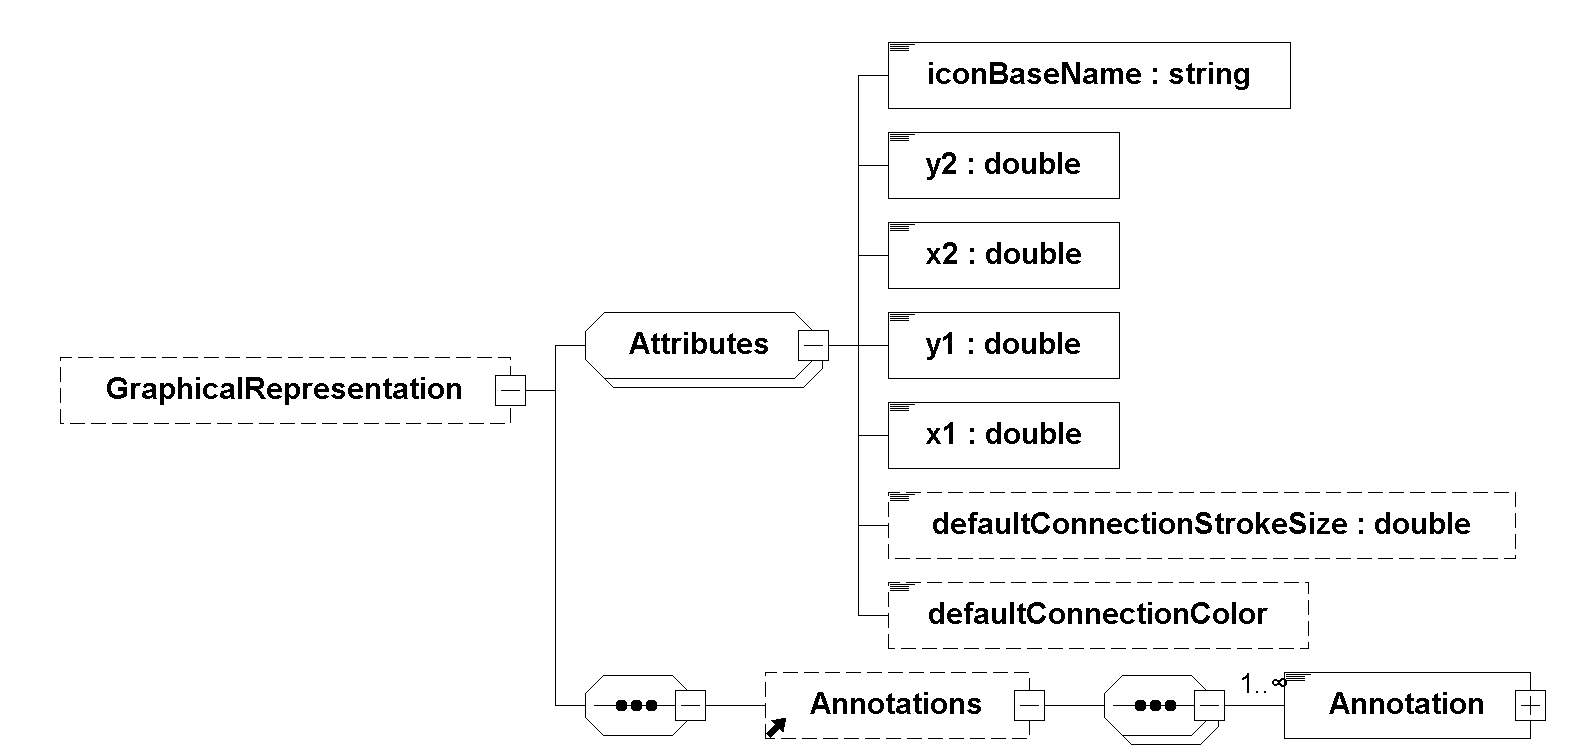
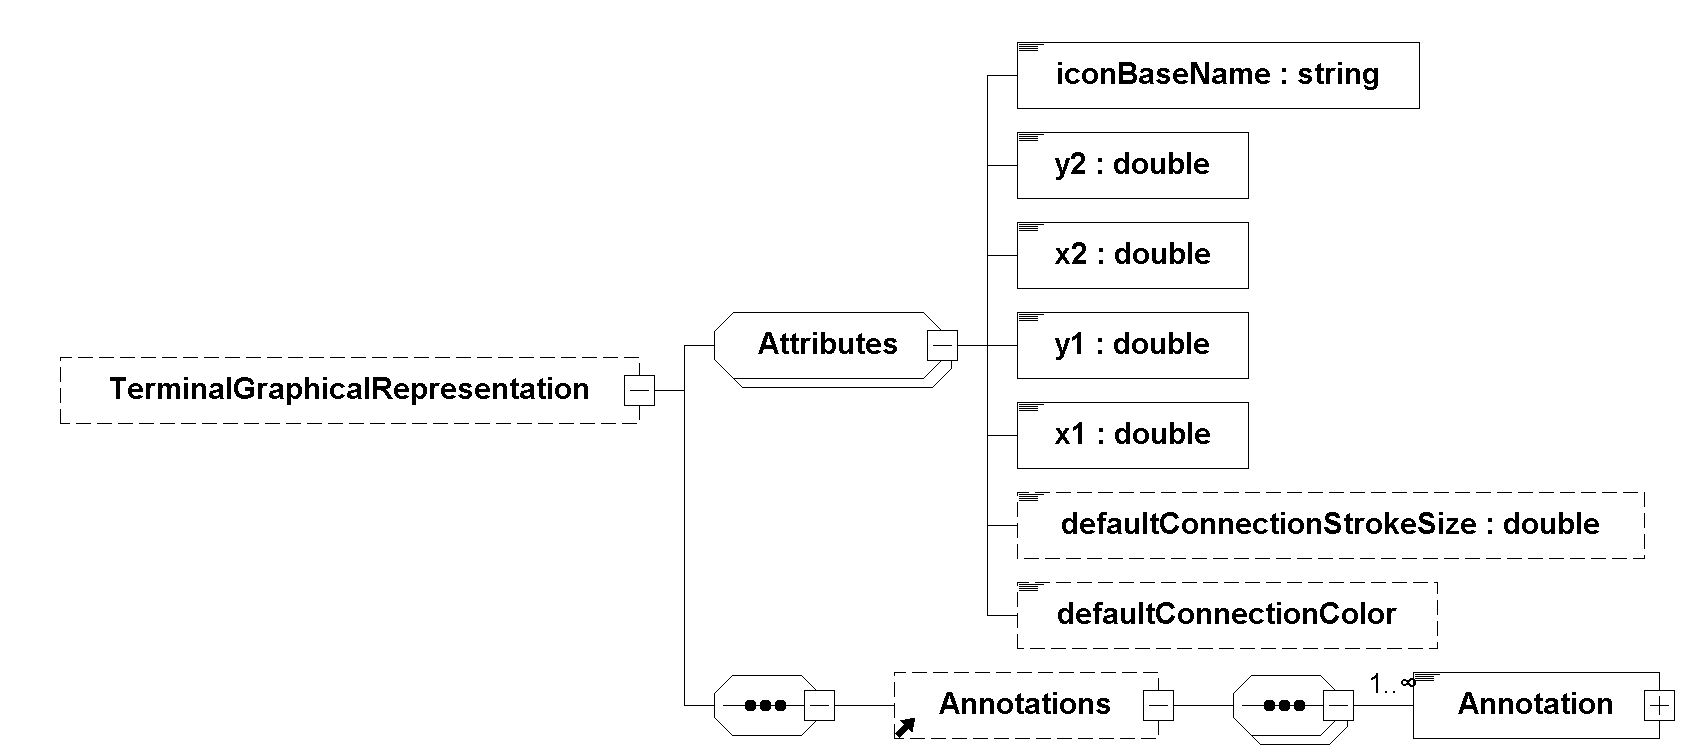
Update generated specification from fmi-standard (f47f783)

diff --git a/docs/3.0-dev/index.html b/docs/3.0-dev/index.html
@@ -682,10 +682,11 @@ document.addEventListener('keydown', (event) => {
 <li><a href="#_overview_3">2.2.6.2.1. Overview</a></li>
 <li><a href="#section-terminals">2.2.6.2.2. Terminals</a></li>
 <li><a href="#section-terminalvars">2.2.6.2.3. Terminal Member Variable</a></li>
-<li><a href="#GeneralRemarkOnSignal">2.2.6.2.4. General Remark on Signal</a></li>
-<li><a href="#_general_remark_on_inflow_and_outflow">2.2.6.2.5. General Remark on Inflow and Outflow</a></li>
-<li><a href="#_terminal_stream_member_variable">2.2.6.2.6. Terminal Stream Member Variable</a></li>
-<li><a href="#_graphical_representation_of_terminals">2.2.6.2.7. Graphical Representation of Terminals</a></li>
+<li><a href="#_terminal_graphical_representations">2.2.6.2.4. Terminal Graphical Representations</a></li>
+<li><a href="#GeneralRemarkOnSignal">2.2.6.2.5. General Remark on Signal</a></li>
+<li><a href="#_general_remark_on_inflow_and_outflow">2.2.6.2.6. General Remark on Inflow and Outflow</a></li>
+<li><a href="#_terminal_stream_member_variable">2.2.6.2.7. Terminal Stream Member Variable</a></li>
+<li><a href="#_graphical_representation_of_terminals">2.2.6.2.8. Graphical Representation of Terminals</a></li>
 </ul>
 </li>
 </ul>
@@ -3611,93 +3612,110 @@ The types used in the FMI schema files are:</p>
 </div>
 <table class="tableblock frame-all grid-all stretch">
 <colgroup>
-<col style="width: 20%;">
-<col style="width: 60%;">
-<col style="width: 20%;">
+<col style="width: 16.6666%;">
+<col style="width: 50%;">
+<col style="width: 16.6666%;">
+<col style="width: 16.6668%;">
 </colgroup>
 <tbody>
 <tr>
 <td class="tableblock halign-left valign-top"><p class="tableblock">XML</p></td>
 <td class="tableblock halign-left valign-top"><p class="tableblock">Description (<a href="http://www.w3.org/TR/xmlschema-2/" class="bare">http://www.w3.org/TR/xmlschema-2/</a>)</p></td>
 <td class="tableblock halign-left valign-top"><p class="tableblock">Mapping to C</p></td>
+<td class="tableblock halign-left valign-top"><p class="tableblock">Mapping to FMI 3.0</p></td>
 </tr>
 <tr>
 <td class="tableblock halign-left valign-top"><p class="tableblock"><code>double</code></p></td>
 <td class="tableblock halign-left valign-top"><p class="tableblock">IEEE 754 double-precision 64-bit floating point type <em>[An IEEE 754 double-precision floating point value can have up to 17 significant digits in its decimal representation.
 In order to not loose precision, either an appropriate minimal printer algorithm should be used, or alternatively a number of this type should be stored in XML files with at least 17 significant digits.]</em></p></td>
 <td class="tableblock halign-left valign-top"><p class="tableblock"><code>double</code></p></td>
+<td class="tableblock halign-left valign-top"><p class="tableblock"><code>fmi3Float64</code></p></td>
 </tr>
 <tr>
 <td class="tableblock halign-left valign-top"><p class="tableblock"><code>single</code></p></td>
 <td class="tableblock halign-left valign-top"><p class="tableblock">IEEE 754 single-precision 32-bit floating point type <em>[An IEEE 754 single-precision floating point value can have up to 9 significant digits in its decimal representation.
 In order to not loose precision, either an appropriate minimal printer algorithm should be used, or alternatively a number of this type should be stored in XML files with at least 9 significant digits.]</em></p></td>
 <td class="tableblock halign-left valign-top"><p class="tableblock"><code>float</code></p></td>
+<td class="tableblock halign-left valign-top"><p class="tableblock"><code>fmi3Float32</code></p></td>
 </tr>
 <tr>
 <td class="tableblock halign-left valign-top"><p class="tableblock"><code>byte</code></p></td>
 <td class="tableblock halign-left valign-top"><p class="tableblock">Integer number with maximum value 127 and minimum value -128 (8 bit signed integer)</p></td>
 <td class="tableblock halign-left valign-top"><p class="tableblock"><code>int8_t</code></p></td>
+<td class="tableblock halign-left valign-top"><p class="tableblock"><code>fmi3Int8</code></p></td>
 </tr>
 <tr>
 <td class="tableblock halign-left valign-top"><p class="tableblock"><code>unsignedByte</code></p></td>
 <td class="tableblock halign-left valign-top"><p class="tableblock">Integer number with maximum value 255 and minimum value 0 (8 bit unsigned integer)</p></td>
 <td class="tableblock halign-left valign-top"><p class="tableblock"><code>uint8_t</code></p></td>
+<td class="tableblock halign-left valign-top"><p class="tableblock"><code>fmi3UInt8</code></p></td>
 </tr>
 <tr>
 <td class="tableblock halign-left valign-top"><p class="tableblock"><code>short</code></p></td>
 <td class="tableblock halign-left valign-top"><p class="tableblock">Integer number with maximum value 32767 and minimum value -32768 (16 bit signed integer)</p></td>
 <td class="tableblock halign-left valign-top"><p class="tableblock"><code>int16_t</code></p></td>
+<td class="tableblock halign-left valign-top"><p class="tableblock"><code>fmi3Int16</code></p></td>
 </tr>
 <tr>
 <td class="tableblock halign-left valign-top"><p class="tableblock"><code>unsignedShort</code></p></td>
 <td class="tableblock halign-left valign-top"><p class="tableblock">Integer number with maximum value 65535 and minimum value 0 (16 bit unsigned integer)</p></td>
 <td class="tableblock halign-left valign-top"><p class="tableblock"><code>uint16_t</code></p></td>
+<td class="tableblock halign-left valign-top"><p class="tableblock"><code>fmi3UInt16</code></p></td>
 </tr>
 <tr>
 <td class="tableblock halign-left valign-top"><p class="tableblock"><code>int</code></p></td>
 <td class="tableblock halign-left valign-top"><p class="tableblock">Integer number with maximum value 2147483647 and minimum value -2147483648 (32 bit signed integer)</p></td>
 <td class="tableblock halign-left valign-top"><p class="tableblock"><code>int32_t</code></p></td>
+<td class="tableblock halign-left valign-top"><p class="tableblock"><code>fmi3Int32</code></p></td>
 </tr>
 <tr>
 <td class="tableblock halign-left valign-top"><p class="tableblock"><code>unsignedInt</code></p></td>
 <td class="tableblock halign-left valign-top"><p class="tableblock">Integer number with maximum value 4294967295 and minimum value 0 (32 bit unsigned integer)</p></td>
 <td class="tableblock halign-left valign-top"><p class="tableblock"><code>uint32_t</code></p></td>
+<td class="tableblock halign-left valign-top"><p class="tableblock"><code>fmi3UInt32</code></p></td>
 </tr>
 <tr>
 <td class="tableblock halign-left valign-top"><p class="tableblock"><code>long</code></p></td>
 <td class="tableblock halign-left valign-top"><p class="tableblock">Integer number with maximum value 9223372036854775807 and minimum value -9223372036854775808 (64 bit signed integer)</p></td>
 <td class="tableblock halign-left valign-top"><p class="tableblock"><code>int64_t</code></p></td>
+<td class="tableblock halign-left valign-top"><p class="tableblock"><code>fmi3Int64</code></p></td>
 </tr>
 <tr>
 <td class="tableblock halign-left valign-top"><p class="tableblock"><code>unsignedLong</code></p></td>
 <td class="tableblock halign-left valign-top"><p class="tableblock">Integer number with maximum value 18446744073709551615 and minimum value 0 (64 bit unsigned integer)</p></td>
 <td class="tableblock halign-left valign-top"><p class="tableblock"><code>uint64_t</code></p></td>
+<td class="tableblock halign-left valign-top"><p class="tableblock"><code>fmi3UInt64</code></p></td>
 </tr>
 <tr>
 <td class="tableblock halign-left valign-top"><p class="tableblock"><code>boolean</code></p></td>
 <td class="tableblock halign-left valign-top"><p class="tableblock">Boolean number. Legal literals: <code>false</code>, <code>true</code>, <code>0</code>, <code>1</code></p></td>
 <td class="tableblock halign-left valign-top"><p class="tableblock"><code>int</code></p></td>
+<td class="tableblock halign-left valign-top"><p class="tableblock"><code>fmi3Boolean</code></p></td>
 </tr>
 <tr>
 <td class="tableblock halign-left valign-top"><p class="tableblock"><code>string</code></p></td>
 <td class="tableblock halign-left valign-top"><p class="tableblock">Any number of characters</p></td>
 <td class="tableblock halign-left valign-top"><p class="tableblock"><code>char*</code></p></td>
+<td class="tableblock halign-left valign-top"><p class="tableblock"><code>fmi3String</code></p></td>
 </tr>
 <tr>
 <td class="tableblock halign-left valign-top"><p class="tableblock"><code>normalizedString</code></p></td>
 <td class="tableblock halign-left valign-top"><p class="tableblock">String without carriage return, line feed, and tab characters</p></td>
 <td class="tableblock halign-left valign-top"><p class="tableblock"><code>char*</code></p></td>
+<td class="tableblock halign-left valign-top"><p class="tableblock"><code>fmi3String</code></p></td>
 </tr>
 <tr>
 <td class="tableblock halign-left valign-top"><p class="tableblock"><code>hexBinary</code></p></td>
 <td class="tableblock halign-left valign-top"><p class="tableblock">Arbitrary hex-encoded binary data</p></td>
 <td class="tableblock halign-left valign-top"><p class="tableblock"><code>char*</code></p></td>
+<td class="tableblock halign-left valign-top"><p class="tableblock"><code>fmi3Binary</code></p></td>
 </tr>
 <tr>
 <td class="tableblock halign-left valign-top"><p class="tableblock"><code>dateTime</code></p></td>
 <td class="tableblock halign-left valign-top"><p class="tableblock">Date, time and time zone (for details see <a href="https://www.w3.org/TR/xmlschema-2/">XML Schema Part 2: Datatypes Second Edition</a>).
 Example: <code>2002-10-23T12:00:00Z</code> (noon on October 23, 2002, Greenwich Mean Time)</p></td>
 <td class="tableblock halign-left valign-top"><p class="tableblock">tool specific</p></td>
+<td class="tableblock halign-left valign-top"><p class="tableblock">not defined</p></td>
 </tr>
 </tbody>
 </table>
@@ -4234,37 +4252,37 @@ Furthermore, <code>name</code> of a <code>&lt;TypeDefinition&gt;</code> must be 
 <div class="paragraph">
 <p>Additionally, one variable type element must be present.
 Each variable type has its own attributes which can be consulted in the schema.
-<a href="#figure-schema-Float64">Figure 4</a>, <a href="#figure-schema-Int32">Figure 5</a>, <a href="#figure-schema-Boolean">Figure 6</a>, <a href="#figure-schema-Binary">Figure 7</a>, and <a href="#figure-schema-Enumeration">Figure 8</a>, are representative examples.</p>
+<a href="#figure-schema-Float64Type">Figure 4</a>, <a href="#figure-schema-Int32Type">Figure 5</a>, <a href="#figure-schema-BooleanType">Figure 6</a>, <a href="#figure-schema-BinaryType">Figure 7</a>, and <a href="#figure-schema-EnumerationType">Figure 8</a>, are representative examples.</p>
 </div>
-<div id="figure-schema-Float64" class="imageblock text-center">
+<div id="figure-schema-Float64Type" class="imageblock text-center">
 <div class="content">
-<img src="images/schema/Float64.png" alt="Float64" width="60%">
+<img src="images/schema/Float64Type.png" alt="Float64Type" width="60%">
 </div>
-<div class="title">Figure 4. Float64 element.</div>
+<div class="title">Figure 4. Float64Type element.</div>
 </div>
-<div id="figure-schema-Int32" class="imageblock text-center">
+<div id="figure-schema-Int32Type" class="imageblock text-center">
 <div class="content">
-<img src="images/schema/Int32.png" alt="Int32" width="50%">
+<img src="images/schema/Int32Type.png" alt="Int32Type" width="50%">
 </div>
-<div class="title">Figure 5. Int32 element.</div>
+<div class="title">Figure 5. Int32Type element.</div>
 </div>
-<div id="figure-schema-Boolean" class="imageblock text-center">
+<div id="figure-schema-BooleanType" class="imageblock text-center">
 <div class="content">
-<img src="images/schema/Boolean.png" alt="Boolean" width="50%">
+<img src="images/schema/BooleanType.png" alt="BooleanType" width="50%">
 </div>
-<div class="title">Figure 6. Boolean element.</div>
+<div class="title">Figure 6. BooleanType element.</div>
 </div>
-<div id="figure-schema-Binary" class="imageblock text-center">
+<div id="figure-schema-BinaryType" class="imageblock text-center">
 <div class="content">
-<img src="images/schema/Binary.png" alt="Binary" width="70%">
+<img src="images/schema/BinaryType.png" alt="BinaryType" width="70%">
 </div>
-<div class="title">Figure 7. Binary element.</div>
+<div class="title">Figure 7. BinaryType element.</div>
 </div>
-<div id="figure-schema-Enumeration" class="imageblock text-center">
+<div id="figure-schema-EnumerationType" class="imageblock text-center">
 <div class="content">
-<img src="images/schema/Enumeration.png" alt="Enumeration" width="75%">
+<img src="images/schema/EnumerationType.png" alt="EnumerationType" width="75%">
 </div>
-<div class="title">Figure 8. Enumeration element.</div>
+<div class="title">Figure 8. EnumerationType element.</div>
 </div>
 <div class="paragraph">
 <p>The type elements are referred to in variable elements to declare their type.
@@ -4466,7 +4484,7 @@ If <code>strict = true</code> it is required to provide values for <code>interva
 </table>
 <div id="TypeDefinitions" class="imageblock text-center">
 <div class="content">
-<img src="images/schema/Clock.png" alt="Clock" width="55%">
+<img src="images/schema/ClockType.png" alt="ClockType" width="55%">
 </div>
 </div>
 </div>
@@ -4715,7 +4733,7 @@ Their location is neither limited to the extent of the icon nor the extent of th
 </div>
 <div class="paragraph">
 <p>Transparent SVG or PNG files are allowed and wanted. The order of the elements in the XML file defines the order of painting.
-The first element in the <code>&lt;GraphicalRepresentation&gt;</code> is painted first and therefore behind the others, the last element is painted on top of the others and because of that in front of them.
+The first element in the <code>&lt;TerminalGraphicalRepresentation&gt;</code> is painted first and therefore behind the others, the last element is painted on top of the others and because of that in front of them.
 <em>[So the FMU icon should be placed first in the XML file, terminal below.]</em></p>
 </div>
 </div>
@@ -4785,7 +4803,7 @@ Other standards may define new matching rules.
 <em>[It is recommended that vendor specific rules start with <code>_vendorName</code> or <code>_toolName</code> to avoid namespace clashes.]</em></p>
 </div>
 <div class="paragraph">
-<p>There is a sequence of terminal member variables, terminal stream member variables, nested terminals, and an optional <code>&lt;GraphicalRepresentation&gt;</code> element in the <code>&lt;Terminal&gt;</code> element.
+<p>There is a sequence of terminal member variables, terminal stream member variables, nested terminals, and an optional <code>&lt;TerminalGraphicalRepresentation&gt;</code> element in the <code>&lt;Terminal&gt;</code> element.
 The member variables are the exchanged variables.
 The type of the nested terminals is <code>fmi3Terminal</code>, and they can be used to implement structured terminals.</p>
 </div>
@@ -4861,6 +4879,17 @@ This information defines how the connection of this variable has to be implement
 <div class="paragraph">
 <p>The normalized string <code>variableName</code> is used to identify the terminal member variable in the element <code>&lt;ModelVariables&gt;</code>. The information about minimum, maximum, and nominal values is available in there.</p>
 </div>
+</div>
+<div class="sect5">
+<h6 id="_terminal_graphical_representations">2.2.6.2.4. Terminal Graphical Representations</h6>
+<div class="paragraph">
+<p>The <code>&lt;TerminalGraphicalRepresentation&gt;</code> is defined as:</p>
+</div>
+<div class="imageblock text-center">
+<div class="content">
+<img src="images/schema/TerminalGraphicalRepresentation.png" alt="TerminalGraphicalRepresentation" width="70%">
+</div>
+</div>
 <div class="paragraph">
 <p>One variable can be part of several terminals.</p>
 </div>
@@ -4932,7 +4961,7 @@ Restricted to <a href="#input"><code>input</code></a> and <a href="#output"><cod
 </table>
 </div>
 <div class="sect5">
-<h6 id="GeneralRemarkOnSignal">2.2.6.2.4. General Remark on Signal</h6>
+<h6 id="GeneralRemarkOnSignal">2.2.6.2.5. General Remark on Signal</h6>
 <div class="paragraph">
 <p><em>[The signal <code>variableKind</code> can be applied for different use cases.</em>
 <em>The first use case is a signal flow from an <a href="#output"><code>output</code></a> of one FMU to an <a href="#input"><code>input</code></a> of another FMU. The <a href="#output"><code>output</code></a> value has to be forwarded to the <a href="#input"><code>input</code></a>.</em></p>
@@ -4958,7 +4987,7 @@ Restricted to <a href="#input"><code>input</code></a> and <a href="#output"><cod
 </div>
 </div>
 <div class="sect5">
-<h6 id="_general_remark_on_inflow_and_outflow">2.2.6.2.5. General Remark on Inflow and Outflow</h6>
+<h6 id="_general_remark_on_inflow_and_outflow">2.2.6.2.6. General Remark on Inflow and Outflow</h6>
 <div class="paragraph">
 <p><em>[Flow variables have a direction and must fulfill a zero sum constraint i.e. the sum of all flow variables connected together must be zero (Kirchhoff&#8217;s current law).</em>
 <em>In addition because different tools might have different direction definitions both, <code>inflow</code> and <code>outflow</code> are available as <code>variableKind</code>.</em>
@@ -4979,7 +5008,7 @@ Restricted to <a href="#input"><code>input</code></a> and <a href="#output"><cod
 </div>
 </div>
 <div class="sect5">
-<h6 id="_terminal_stream_member_variable">2.2.6.2.6. Terminal Stream Member Variable</h6>
+<h6 id="_terminal_stream_member_variable">2.2.6.2.7. Terminal Stream Member Variable</h6>
 <div class="paragraph">
 <p>The <code>&lt;TerminalStreamMemberVariable&gt;</code> is defined as:</p>
 </div>
@@ -5040,15 +5069,14 @@ q_{i, \mathit{inStream}} &amp;\textit{if $\dot{m}$ is inflowing through terminal
 </div>
 </div>
 <div class="sect5">
-<h6 id="_graphical_representation_of_terminals">2.2.6.2.7. Graphical Representation of Terminals</h6>
+<h6 id="_graphical_representation_of_terminals">2.2.6.2.8. Graphical Representation of Terminals</h6>
 <div class="imageblock text-center">
 <div class="content">
 <img src="images/schema/TerminalGraphicalRepresentation.png" alt="TerminalGraphicalRepresentation" width="75%">
 </div>
 </div>
 <div class="paragraph">
-<p>The description of the general attributes can be found in <a href="#graphicalRepresentation">Section 2.2.6.1</a>.
-The <code>iconBaseName</code> attribute is mandatory.
+<p>The <code>iconBaseName</code> attribute is mandatory.
 This attribute defines the base name of the image file as a relative URI according to RFC 3986.
 The base URI that this relative URI is resolved against is the URI of the <code>icons/terminalsAndIcons.xml</code> file in the FMU ZIP archive.
 Implementations are only REQUIRED to support relative URIs, excluding relative URIs that move beyond the baseURI (i.e. go "up" a level via ..).
@@ -5063,10 +5091,10 @@ The PNG file with the extension '.png' has to be provided. An additional SVG fil
 The stroke color is given in RGB values from 0 to 255. E.g.: <code>255 255 0</code>.</p>
 </div>
 <div class="paragraph">
-<p><em>[Nested terminals may have a <code>&lt;GraphicalRepresentation&gt;</code> element. However, if and how nested terminals are displayed, is up to the importing tool.]</em></p>
+<p><em>[Nested terminals may have a <code>&lt;TerminalGraphicalRepresentation&gt;</code> element. However, if and how nested terminals are displayed, is up to the importing tool.]</em></p>
 </div>
 <div class="paragraph">
-<p><em>[The order of painting of the <code>&lt;GraphicalRepresentation&gt;</code> of terminals on each level is equal to the order of appearance in the <code>&lt;Terminal&gt;</code> element. So graphical representations appearing first, are painted first, are behind graphical representations which appear below.]</em></p>
+<p><em>[The order of painting of the <code>&lt;TerminalGraphicalRepresentation&gt;</code> of terminals on each level is equal to the order of appearance in the <code>&lt;Terminal&gt;</code> element. So graphical representations appearing first, are painted first, are behind graphical representations which appear below.]</em></p>
 </div>
 <div class="paragraph">
 <p>The <code>Annotations</code> element can be used by vendors to store additional information for the graphical representation.
@@ -5198,7 +5226,7 @@ This attribute is <code>required</code>.</p>
 Allowed values of this enumeration:</p>
 </div>
 <div id="parameter" class="paragraph">
-<p><code>= parameter</code>: A data value that is constant during the simulation (except for <a href="#tunable"><code>tunable</code></a> parameters, see there) and is provided by the environment and cannot be used in connections, except for parameter propagation in terminals as described in <a href="#GeneralRemarkOnSignal">Section 2.2.6.2.4</a>.
+<p><code>= parameter</code>: A data value that is constant during the simulation (except for <a href="#tunable"><code>tunable</code></a> parameters, see there) and is provided by the environment and cannot be used in connections, except for parameter propagation in terminals as described in <a href="#GeneralRemarkOnSignal">Section 2.2.6.2.5</a>.
 <a href="#variability"><code>variability</code></a> must be <a href="#fixed"><code>fixed</code></a> or <a href="#tunable"><code>tunable</code></a>.
 These parameters can be changed independently, unlike <a href="#calculatedParameter">calculated parameters</a>.
 <a href="#initial"><code>initial</code></a> must be <a href="#exact"><code>exact</code></a> or not present (meaning <a href="#exact"><code>exact</code></a>).</p>
@@ -5843,35 +5871,35 @@ Variables with <a href="#causality"><code>causality</code></a> <a href="#paramet
 </div>
 <div class="paragraph">
 <p>Type specific properties are defined in the required choice element, where exactly one of the numeric types or an <code>&lt;Enumeration&gt;</code> must be present in the XML file:
-<a href="#figure-schema-Variable_Float64">Figure 11</a>, <a href="#figure-schema-Variable_Int32">Figure 12</a>, <a href="#figure-schema-Variable_Boolean">Figure 13</a>, <a href="#figure-schema-Variable_Binary">Figure 14</a>, and <a href="#figure-schema-Variable_Enumeration">Figure 15</a>, are representative examples.</p>
+<a href="#figure-schema-Float64">Figure 11</a>, <a href="#figure-schema-Int32">Figure 12</a>, <a href="#figure-schema-Boolean">Figure 13</a>, <a href="#figure-schema-Binary">Figure 14</a>, and <a href="#figure-schema-Enumeration">Figure 15</a>, are representative examples.</p>
 </div>
-<div id="figure-schema-Variable_Float64" class="imageblock text-center">
+<div id="figure-schema-Float64" class="imageblock text-center">
 <div class="content">
-<img src="images/schema/Variable_Float64.png" alt="Variable Float64" width="70%">
+<img src="images/schema/Float64.png" alt="Float64" width="70%">
 </div>
 <div class="title">Figure 11. Float64 element.</div>
 </div>
-<div id="figure-schema-Variable_Int32" class="imageblock text-center">
+<div id="figure-schema-Int32" class="imageblock text-center">
 <div class="content">
-<img src="images/schema/Variable_Int32.png" alt="Variable Int32" width="70%">
+<img src="images/schema/Int32.png" alt="Int32" width="70%">
 </div>
 <div class="title">Figure 12. Int32 element.</div>
 </div>
-<div id="figure-schema-Variable_Boolean" class="imageblock text-center">
+<div id="figure-schema-Boolean" class="imageblock text-center">
 <div class="content">
-<img src="images/schema/Variable_Boolean.png" alt="Variable Boolean" width="70%">
+<img src="images/schema/Boolean.png" alt="Boolean" width="70%">
 </div>
 <div class="title">Figure 13. Boolean element.</div>
 </div>
-<div id="figure-schema-Variable_Binary" class="imageblock text-center">
+<div id="figure-schema-Binary" class="imageblock text-center">
 <div class="content">
-<img src="images/schema/Variable_Binary.png" alt="Variable Binary" width="70%">
+<img src="images/schema/Binary.png" alt="Binary" width="70%">
 </div>
 <div class="title">Figure 14. Binary element.</div>
 </div>
-<div id="figure-schema-Variable_Enumeration" class="imageblock text-center">
+<div id="figure-schema-Enumeration" class="imageblock text-center">
 <div class="content">
-<img src="images/schema/Variable_Enumeration.png" alt="Variable Enumeration" width="70%">
+<img src="images/schema/Enumeration.png" alt="Enumeration" width="70%">
 </div>
 <div class="title">Figure 15. Enumeration element.</div>
 </div>
@@ -9097,10 +9125,10 @@ If this is the case, then flag <code>canGetAndSetFMUState</code> must be <code>t
     &lt;/Unit&gt;
   &lt;/UnitDefinitions&gt;
   &lt;TypeDefinitions&gt;
-    &lt;Float64 name="Modelica.SIunits.Inertia" quantity="MomentOfInertia" unit="kg.m2" min="0.0"/&gt;
-    &lt;Float64 name="Modelica.SIunits.Torque" quantity="Torque" unit="N.m"/&gt;
-    &lt;Float64 name="Modelica.SIunits.AngularVelocity" quantity="AngularVelocity" unit="rad/s"/&gt;
-    &lt;Float64 name="Modelica.SIunits.Angle" quantity="Angle" unit="rad"/&gt;
+    &lt;Float64Type name="Modelica.SIunits.Inertia" quantity="MomentOfInertia" unit="kg.m2" min="0.0"/&gt;
+    &lt;Float64Type name="Modelica.SIunits.Torque" quantity="Torque" unit="N.m"/&gt;
+    &lt;Float64Type name="Modelica.SIunits.AngularVelocity" quantity="AngularVelocity" unit="rad/s"/&gt;
+    &lt;Float64Type name="Modelica.SIunits.Angle" quantity="Angle" unit="rad"/&gt;
   &lt;/TypeDefinitions&gt;
   &lt;DefaultExperiment startTime="0.0" stopTime="3.0" tolerance="0.0001"/&gt;
   &lt;ModelVariables&gt;
@@ -10236,10 +10264,10 @@ The XML file may have the following content:</p>
     &lt;/Unit&gt;
   &lt;/UnitDefinitions&gt;
   &lt;TypeDefinitions&gt;
-    &lt;Float64 name="Modelica.SIunits.Inertia" quantity="MomentOfInertia" unit="kg.m2" min="0.0"/&gt;
-    &lt;Float64 name="Modelica.SIunits.Torque" quantity="Torque" unit="N.m"/&gt;
-    &lt;Float64 name="Modelica.SIunits.AngularVelocity" quantity="AngularVelocity" unit="rad/s"/&gt;
-    &lt;Float64 name="Modelica.SIunits.Angle" quantity="Angle" unit="rad"/&gt;
+    &lt;Float64Type name="Modelica.SIunits.Inertia" quantity="MomentOfInertia" unit="kg.m2" min="0.0"/&gt;
+    &lt;Float64Type name="Modelica.SIunits.Torque" quantity="Torque" unit="N.m"/&gt;
+    &lt;Float64Type name="Modelica.SIunits.AngularVelocity" quantity="AngularVelocity" unit="rad/s"/&gt;
+    &lt;Float64Type name="Modelica.SIunits.Angle" quantity="Angle" unit="rad"/&gt;
   &lt;/TypeDefinitions&gt;
   &lt;DefaultExperiment startTime="0.0" stopTime="3.0" tolerance="0.0001"/&gt;
   &lt;ModelVariables&gt;
